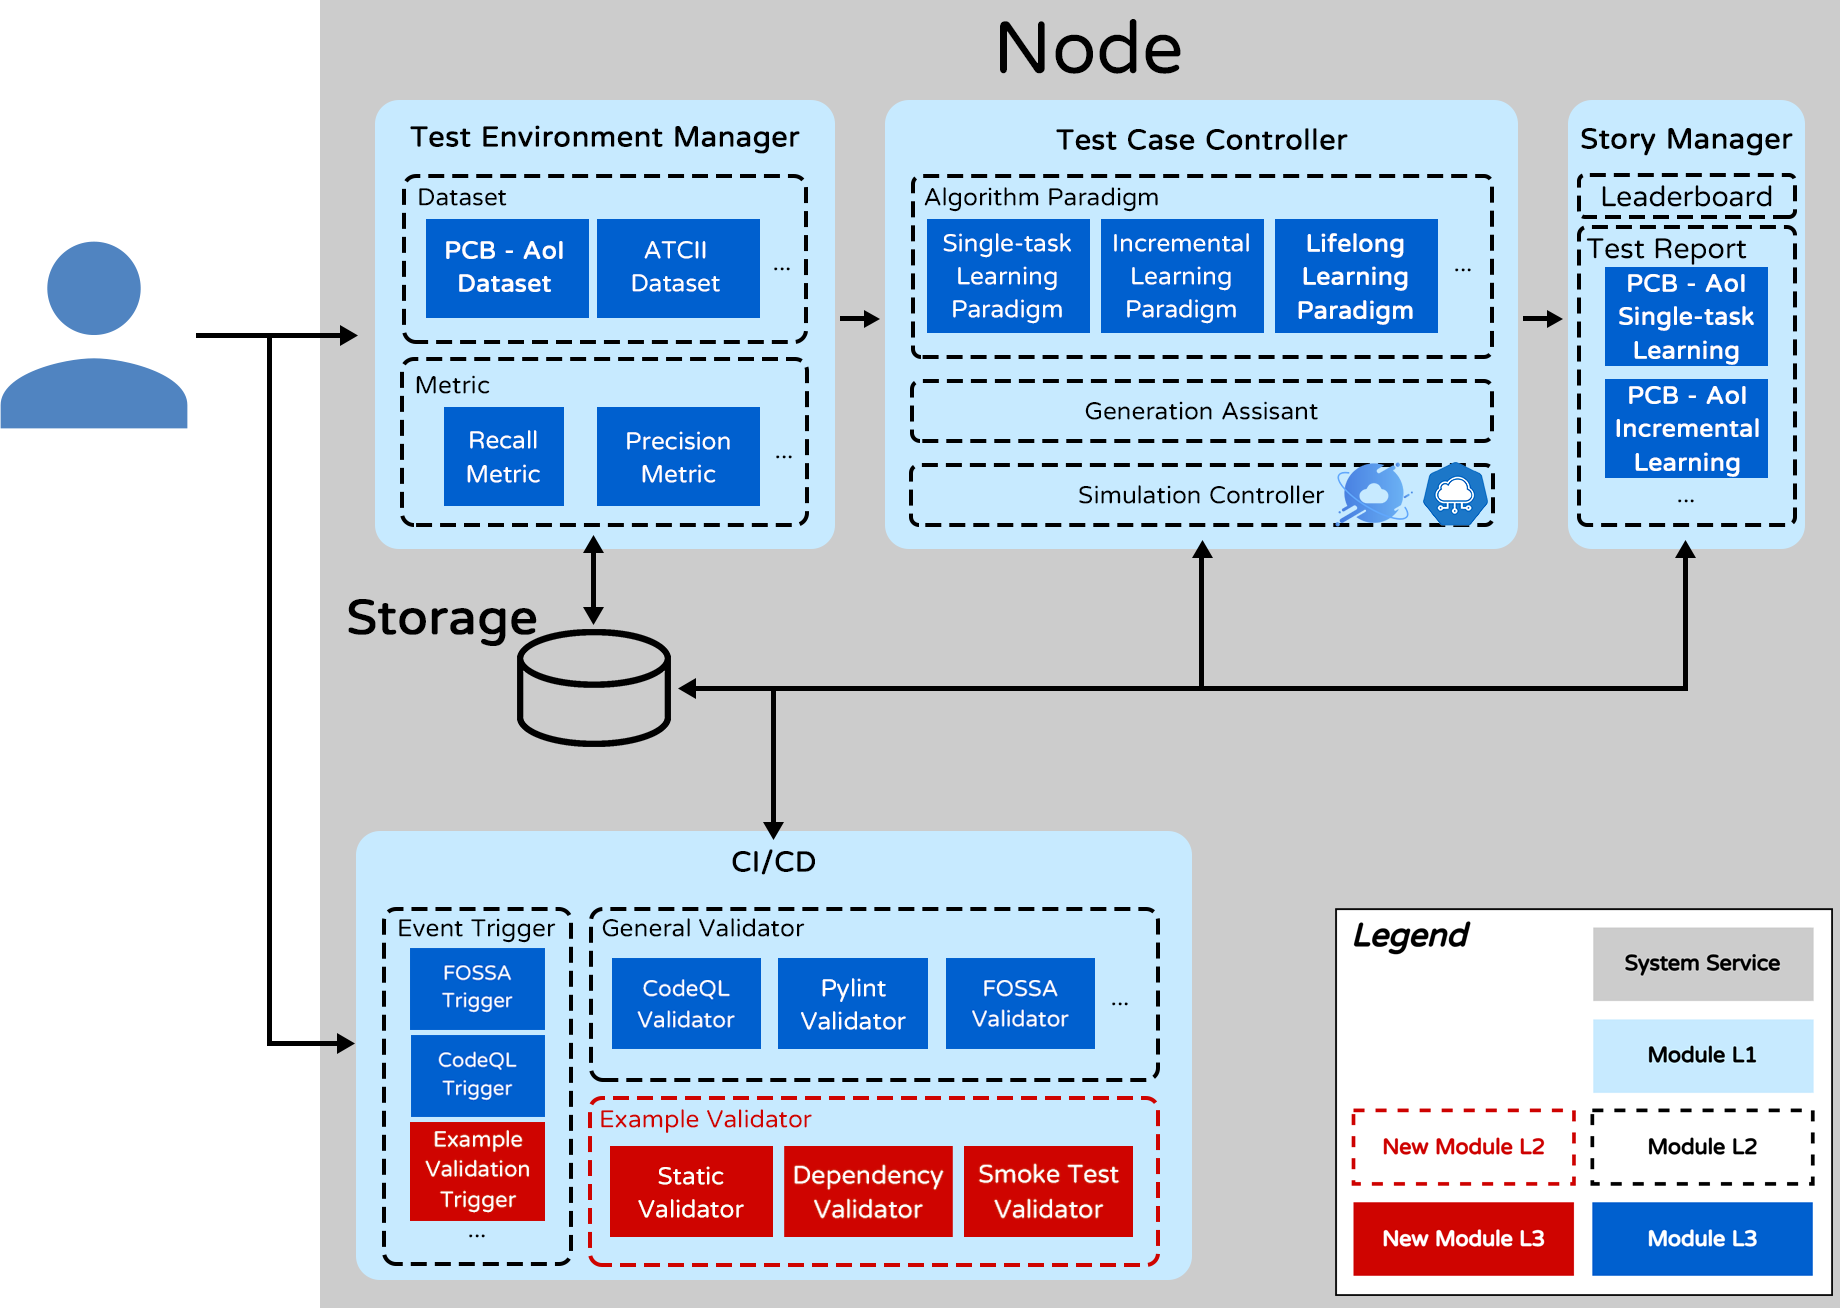
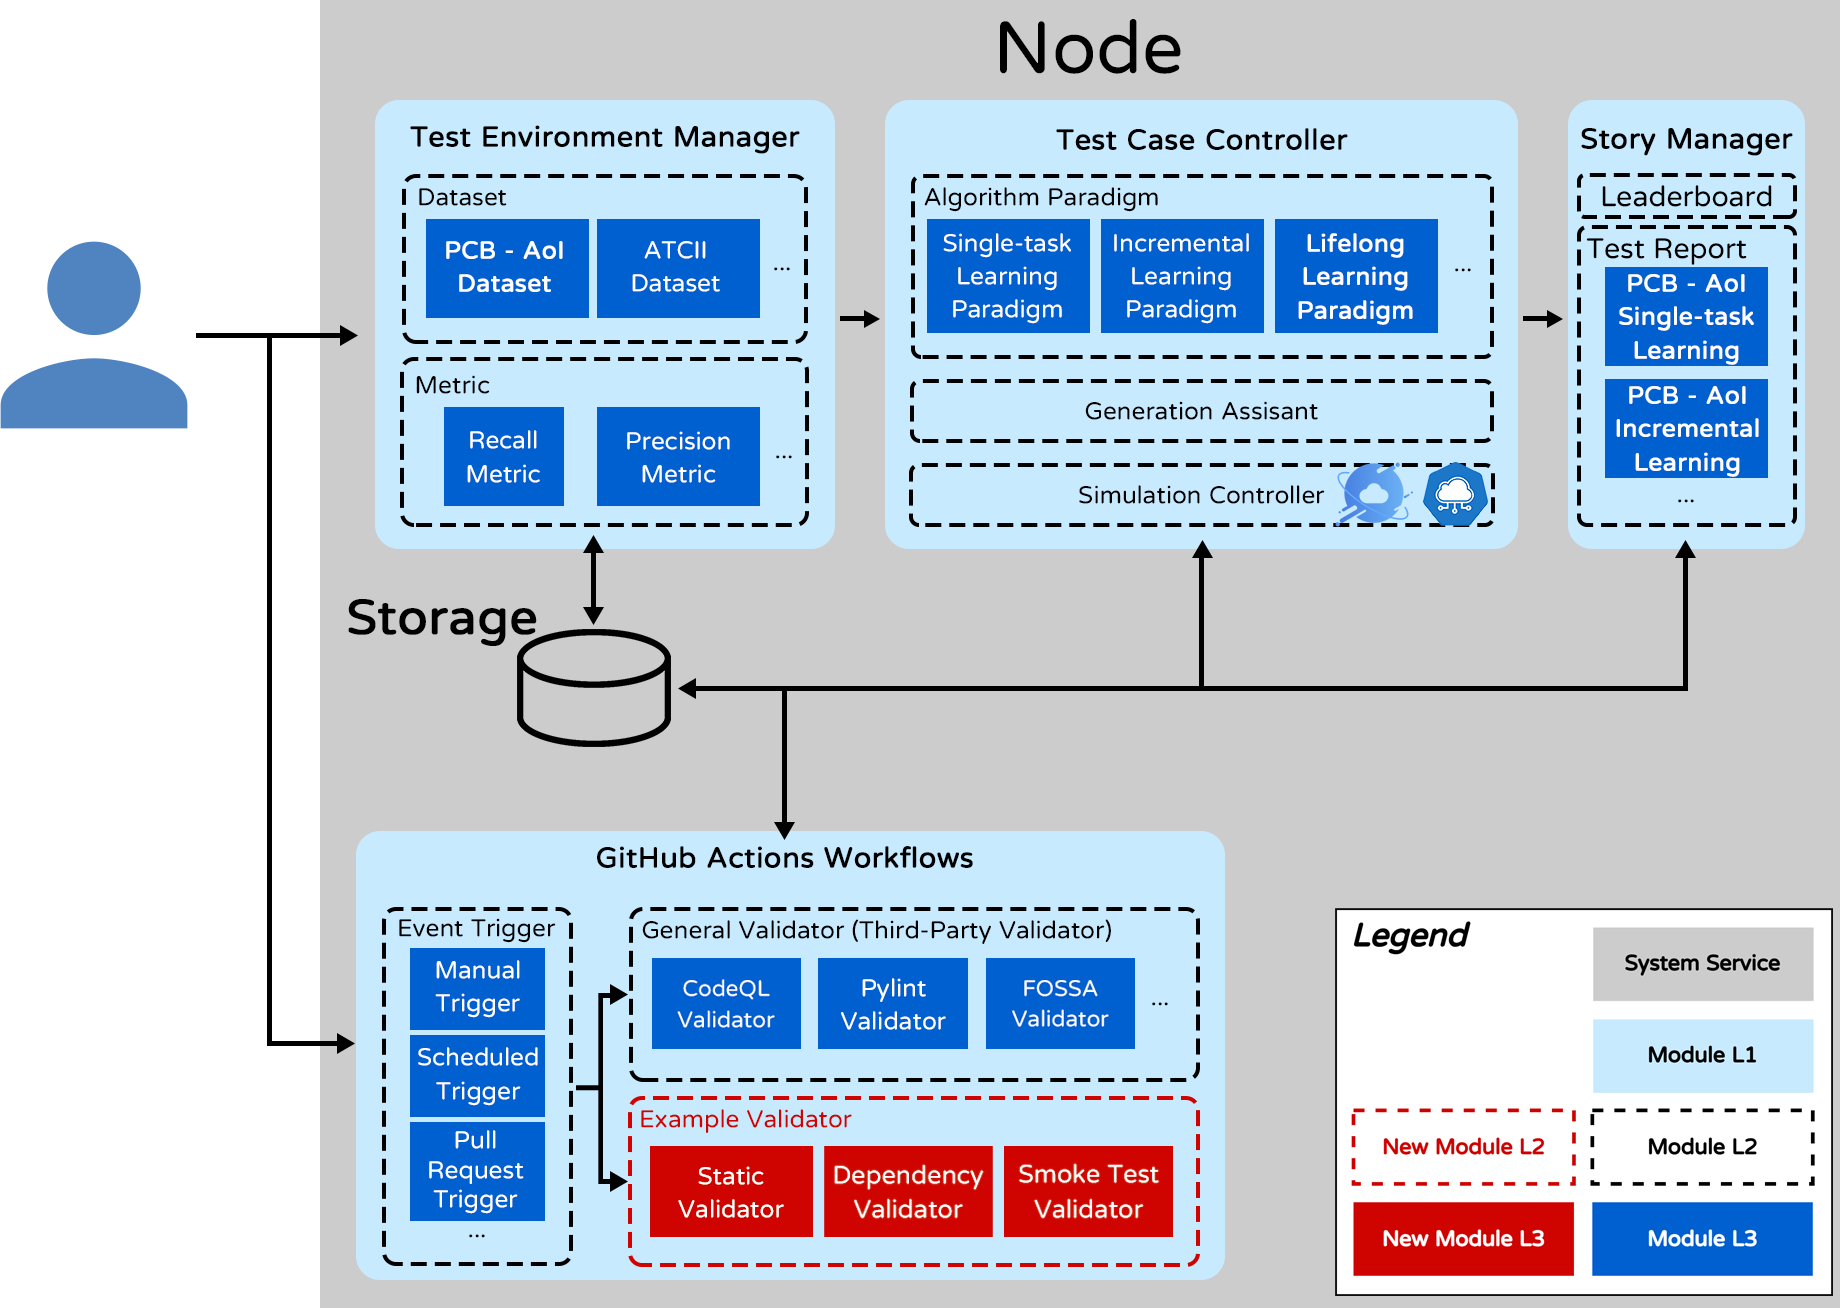
docs: update example validator proposal structure

Changed region(s): [[0.2168, 0.6422, 0.6815, 0.9786], [0.3098, 0.5199, 0.5266, 0.6728]]

diff --git a/docs/proposals/scenarios/example-restoration/phase-3-2026-term-2/proposal.md b/docs/proposals/scenarios/example-restoration/phase-3-2026-term-2/proposal.md
@@ -409,6 +409,8 @@ The following architecture diagram shows the main system layers of the proposed 
 
 ![Software Architecture](images/Software-Architecture.png)
 
+Although the software architecture presents GitHub Actions as the CI/CD execution layer, the repository does not introduce a separate `.github/CICD/` directory because GitHub Actions only discovers workflow definitions under `.github/workflows/` ([document](https://docs.github.com/en/actions/how-tos/manage-workflow-runs/approve-runs-from-forks)). Each validation concern therefore remains represented by a single workflow file, such as CodeQL, FOSSA, Pylint, or example validation. The General Validators are third-party integrations, so they require only their corresponding YAML workflow files and do not introduce additional implementation files in the repository. In contrast, the Example Validator contains project-specific reusable logic, which is implemented under `.github/tools/example_validator/` and invoked by the example-validation workflow.
+
 ```text
 Ianvs Repository
 ├── examples/
@@ -430,13 +432,13 @@ Ianvs Repository
 └── .github/
     ├── tools/
     │   └── example_validator/
-    │       ├── main.py
+    │       ├── validation_runner.py
     │       ├── static_validator.py
     │       ├── dependency_validator.py
     │       ├── smoke_test_validator.py
-    │       ├── core/
-    │       │   ├── validation_branch_wrapper.py
-    │       │   ├── inventory.py
+    │       ├── services/
+    │       │   ├── validation_branch_manager.py
+    │       │   ├── inventory_loader.py
     │       │   ├── regression_detector.py
     │       │   └── report_generator.py
     │       └── data/
@@ -454,23 +456,23 @@ The responsibilities of the proposed files are:
 | `examples/README.md` | Serves as the maintainer-facing summary of current example health. It should keep the latest T2/T3 validation time and the example status matrix, link or point to the underlying CI evidence when needed, and provide a stable place to track whether an example is validated, degraded, quarantined, external-resource-dependent, or awaiting follow-up repair work. Detailed status explanations should live in `docs/example_validator/status_directions.md`, and `examples/README.md` should link to that file. |
 | `examples/<example_name>/scripts/prepare_dataset.py` | Provides the standard dataset preparation entry point for examples that support automated dataset setup. It should download, generate, or normalize the required dataset into the documented directory structure from a clean environment. |
 | `docs/example_validator/status_directions.md` | Documents the example status model, badge legend, broken-status subtypes, and interpretation notes. This keeps detailed status explanations out of `examples/README.md`, where only the latest validation time and status matrix should remain. A later documentation update should make `examples/README.md` link to this file. |
-| `.github/tools/example_validator/main.py` | Serves as the main entry point for local and CI validation. It should parse CLI arguments, load the inventory, select validation stages, invoke the validation modules that live directly under `example_validator/`, and coordinate report generation. |
+| `.github/tools/example_validator/validation_runner.py` | Serves as the main entry point for local and CI validation. It should parse CLI arguments, load the inventory, select validation stages, invoke the validation modules that live directly under `example_validator/`, and coordinate report generation. |
 | `.github/tools/example_validator/static_validator.py` | Performs lightweight static checks without executing examples. It should detect problems such as missing files, invalid YAML, broken relative paths, hardcoded local paths, outdated repository layout references, README and configuration mismatches, local-only model paths, and CUDA-only assumptions. |
 | `.github/tools/example_validator/dependency_validator.py` | Validates whether example dependencies are properly declared and installable. It should check dependency file presence, package installation behavior, Python version compatibility, and dependency-related failures that block clean-environment execution. |
 | `.github/tools/example_validator/smoke_test_validator.py` | Runs lightweight execution validation for selected examples to confirm that they can start and complete a minimal validation run in CI without requiring full benchmark workloads where possible. |
-| `.github/tools/example_validator/core/validation_branch_wrapper.py` | Wraps local validation with the branch preparation and cleanup steps shown in the local validation flowchart. It should run around `main.py`, checking whether the `upstream` remote exists, adding it when missing, fetching `upstream/main`, finding the merge-base against the contributor's local `HEAD`, detecting changed files, creating a temporary validation branch, rebasing that branch onto `upstream/main`, and deleting the temporary branch after validation completes. |
-| `.github/tools/example_validator/core/inventory.py` | Loads and manages the example inventory. It should provide structured metadata access, helper logic for selecting changed or affected examples, and shared inventory operations used by the validation pipeline. |
-| `.github/tools/example_validator/core/regression_detector.py` | Compares validation failures from the pull request result against the baseline result from the `main` branch. It should identify which failures are newly introduced by the pull request, which failures already exist on `main`, and which differences should be classified as non-blocking baseline debt rather than PR regressions. |
-| `.github/tools/example_validator/core/report_generator.py` | Converts validation results into human-readable CI summaries and example health reports, including failure classifications, reproduction commands, and suggested next actions for contributors and maintainers. |
+| `.github/tools/example_validator/services/validation_branch_manager.py` | Wraps local validation with the branch preparation and cleanup steps shown in the local validation flowchart. It should run around `validation_runner.py`, checking whether the `upstream` remote exists, adding it when missing, fetching `upstream/main`, finding the merge-base against the contributor's local `HEAD`, detecting changed files, creating a temporary validation branch, rebasing that branch onto `upstream/main`, and deleting the temporary branch after validation completes. |
+| `.github/tools/example_validator/services/inventory_loader.py` | Loads and manages the example inventory. It should provide structured metadata access, helper logic for selecting changed or affected examples, and shared inventory operations used by the validation pipeline. |
+| `.github/tools/example_validator/services/regression_detector.py` | Compares validation failures from the pull request result against the baseline result from the `main` branch. It should identify which failures are newly introduced by the pull request, which failures already exist on `main`, and which differences should be classified as non-blocking baseline debt rather than PR regressions. |
+| `.github/tools/example_validator/services/report_generator.py` | Converts validation results into human-readable CI summaries and example health reports, including failure classifications, reproduction commands, and suggested next actions for contributors and maintainers. |
 | `.github/tools/example_validator/data/example_inventory.yaml` | Stores the example inventory and classification metadata, including each example's path, validation level, dataset requirements, dependency requirements, model requirements, hardware requirements, current status, expected dataset structure, and whether the dataset is external when automated preparation is unavailable. |
 | `docs/example_validator/validation_rules.md` | Documents the validation rules implemented by the framework, including what each validator checks, why the rule exists, and how maintainers should interpret its result. |
 | `docs/example_validator/classification_policy.md` | Defines the example status model and failure classification policy, including which failure types block pull requests and which should be treated as known, pre-existing, or time-based failures. |
 | `docs/example_validator/local_validation.md` | Documents how contributors run validation locally, including example commands, expected usage patterns, local troubleshooting, and optional workflow-level local verification guidance. |
 | `.github/workflows/example_validator.yml` | Defines the GitHub Actions workflow that runs the validation tiers, collects results, and publishes CI summaries or report artifacts. |
 
-For local contributor validation, `validation_branch_wrapper.py` should act as a wrapper around `main.py`. Before validation starts, it should ensure the `upstream` remote is available, synchronize with `upstream/main`, compute the change set against the merge-base, and create the temporary rebased validation branch. After validation finishes, it should handle cleanup, including deleting the temporary validation branch.
+For local contributor validation, `validation_branch_manager.py` should act as a wrapper around `validation_runner.py`. Before validation starts, it should ensure the `upstream` remote is available, synchronize with `upstream/main`, compute the change set against the merge-base, and create the temporary rebased validation branch. After validation finishes, it should handle cleanup, including deleting the temporary validation branch.
 
-For pull request validation, `main.py` should invoke `regression_detector.py` after the selected validation modules complete so the framework can compare the PR result against the current `main` branch baseline before deciding whether a failure should block merge.
+For pull request validation, `validation_runner.py` should invoke `regression_detector.py` after the selected validation modules complete so the framework can compare the PR result against the current `main` branch baseline before deciding whether a failure should block merge.
 
 ---
 
@@ -829,7 +831,7 @@ Suggested Next Action:
 - Create a follow-up restoration issue if maintainers decide the example should be repaired.
 
 Reproduction:
-python .github/tools/example_validator/main.py --example examples/llm_simple_qa --smoke
+python .github/tools/example_validator/validation_runner.py --example examples/llm_simple_qa --smoke
 ```
 
 ---
@@ -1424,11 +1426,11 @@ In short, `Alpha` is still needed to identify the contributor-owned diff, `Beta`
 Local validation commands:
 
 ```bash
-python .github/tools/example_validator/main.py --static
-python .github/tools/example_validator/main.py --example examples/llm_simple_qa
-python .github/tools/example_validator/main.py --smoke examples/llm_simple_qa
-python .github/tools/example_validator/main.py --example examples/llm_simple_qa --all
-python .github/tools/example_validator/main.py --example examples/llm_simple_qa --jsonl
+python .github/tools/example_validator/validation_runner.py --static
+python .github/tools/example_validator/validation_runner.py --example examples/llm_simple_qa
+python .github/tools/example_validator/validation_runner.py --smoke examples/llm_simple_qa
+python .github/tools/example_validator/validation_runner.py --example examples/llm_simple_qa --all
+python .github/tools/example_validator/validation_runner.py --example examples/llm_simple_qa --jsonl
 ```
 
 For workflow-level verification, contributors should also be able to run the relevant GitHub Actions jobs locally before pushing changes. The proposal should document using `nektos/act` to execute selected workflows or jobs from `.github/workflows/`, so contributors can check whether the same workflow logic used in CI still passes in a local environment.
